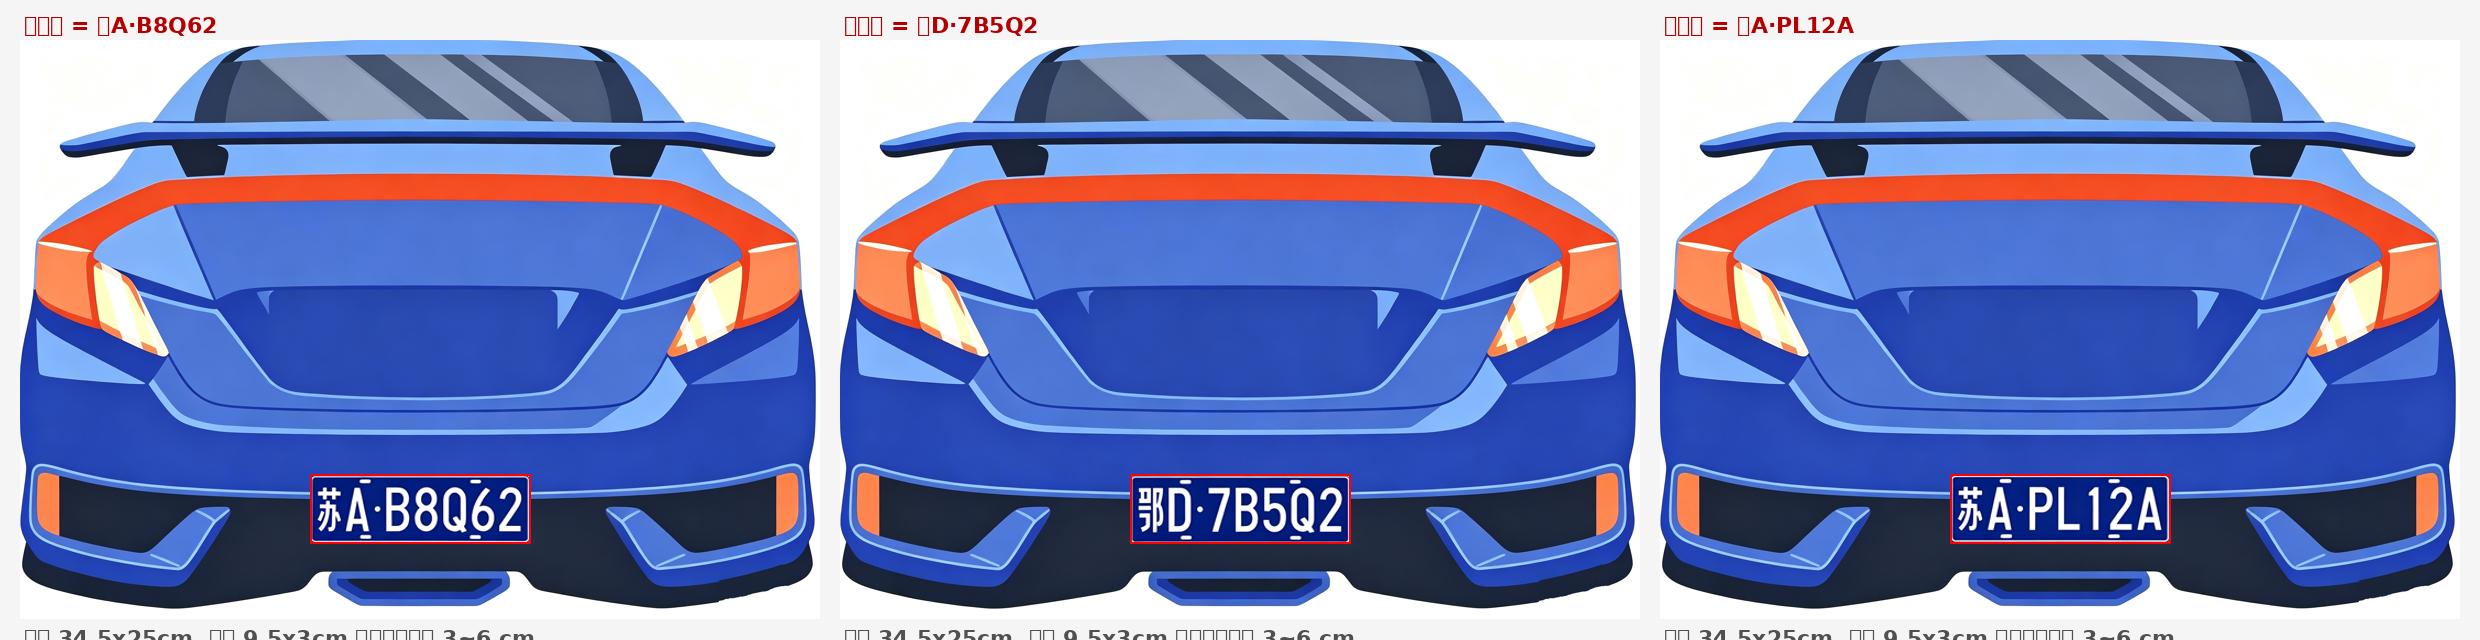
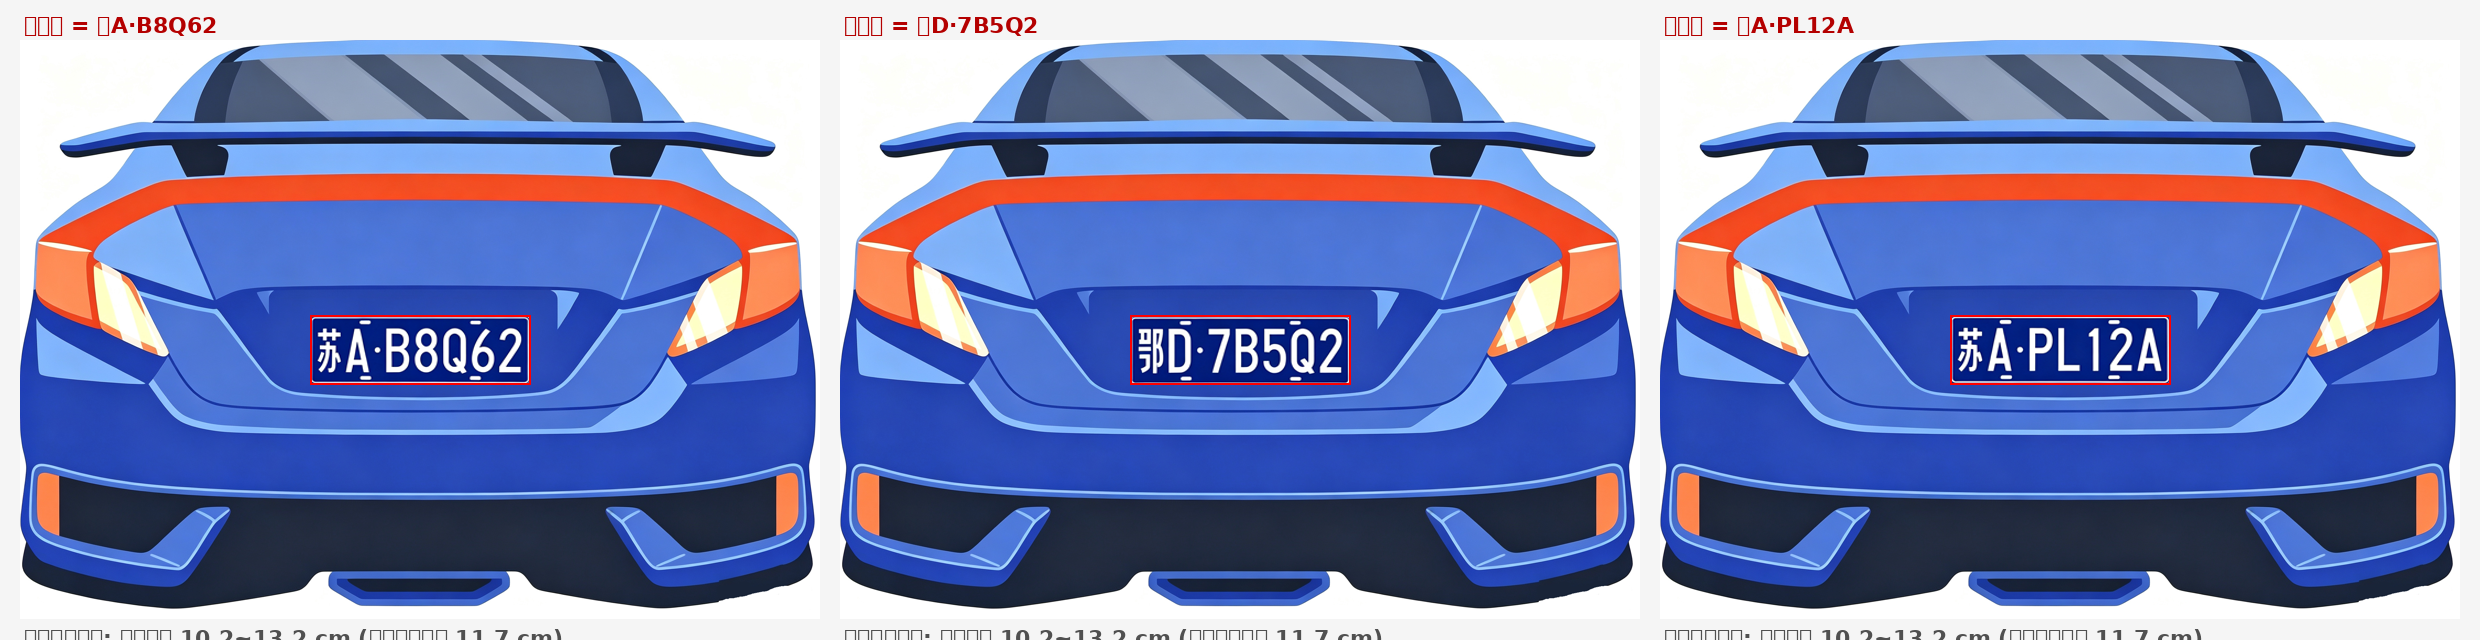
车牌移到后备箱 + 相机提到 1280x960 + 修掉 OGRE 全局贴图名冲突
用户反馈两点:
  1) 车牌位置不对 —— 按实车应该在**后备箱**上, 并给了画红框的标注图
  2) 可以提高分辨率

改动:
1) 车牌位置 后保险杠 -> 后备箱
   从用户标注图里提取红框 (连通域按填充率区分"手画细框"和"车尾红色灯带",
   灯带填充率 0.178 但外接框 2312x462 是整车宽; 红框 883x348px):
     红框 12.54 x 4.94 cm, 中心离车板底 11.65 cm
   -> PLATE_CZ 0.048 -> 0.1165 (车牌 9.5x3cm 居中贴红框中心)
   新增 PLATE_CX 参数 (红框中心实测偏 -0.28cm, 取 0)

2) 相机 640x480 -> 1280x960 (robot_params.yaml, 已重新生成 URDF)
   为什么必须提: 车牌只有 9.5cm 宽, 640x480/58°HFOV 时在 0.9m 处只占 67px,
   7 个字符每字 ~9px, **不够 OCR**; 1280x960 后:
     车距 0.605m -> 198px -> 每字 26px ✓
     车距 0.70m  -> 171px -> 每字 23px ✓
     车距 0.90m  -> 133px -> 每字 18px ~勉强
   所以机器人得贴到右车道内侧 (x≈1.45, 距车 0.6m 左右) 拍。

3) ★ 修 OGRE 全局名字冲突 (踩了两层)
   第一层: 材质名。三个模型都用 Car/Body + Car/Plate -> 互相覆盖,
           三辆车显示同一张车牌。改成 Car/Body_<model> / Car/Plate_<model>。
   第二层: **贴图名也冲突**。三个模型目录下的贴图都叫 car.png / plate.png,
           OGRE 的贴图也是按名字全局注册的 -> 仍然互相覆盖。
           改成 <model>_car.png / <model>_plate.png, 并在生成前清空 textures
           目录 (旧文件残留会继续占名)。
   实测: 修之前在默认出生点前方临时摆 car_1/car_2, 抓到的是 car_3 的 PL12A;
         修后同位置抓到 苏A·B8Q62 (car_1) ✓ 三辆车各显示自己的牌照。
   (人偶立牌没踩这个坑 —— 它的贴图本来就按 standee_c01.png 这样唯一命名)

顺带产出: docs/car_design.png (车牌贴片位置的离线合成验证图)

diff --git a/tools/setup_cars.py b/tools/setup_cars.py
@@ -49,10 +49,13 @@ END = '    <!-- ===== 车辆+车牌结束 ===== -->'
 BOARD_W, BOARD_H, BOARD_T = 0.345, 0.250, 0.005     # 车板 宽 x 高 x 厚
 PLATE_W, PLATE_H, PLATE_T = 0.095, 0.030, 0.003     # 车牌 宽 x 高 x 厚
 BASE_T = 0.006                                       # 底座厚
-# 车牌贴在车板正面的位置 (相对车板左下角): 水平居中, 高度 4.8cm
-#   官方车尾图没画车牌安装位, 按真车习惯放在后保险杠中间; 实测保险杠在
-#   z 0.014~0.079 m, 车牌 3cm 高居中放在 0.048 刚好落在保险杠上
-PLATE_CZ = 0.048
+# 车牌贴在车板正面的位置 (相对车板左下角)
+#   ★ 位置由用户标注决定: 用户在车尾图上画了红框 (手画, 12.54 x 4.94 cm,
+#     中心离车板底 11.65 cm) —— 按实车看车牌是装在后**备箱**上, 不是保险杠。
+#     车牌 9.5x3 cm 居中贴在红框中心。
+#     (一开始我按真车习惯放在后保险杠中间, 是错的; 官方车尾图上确实不明显)
+PLATE_CZ = 0.1165
+PLATE_CX = 0.0          # 水平偏移 (红框中心实测偏 -0.28cm, 可忽略)
 
 PARKING = [                                          # (车位名, y0, y1)  由 build_arena 提取
     ('3号停车位', -0.805, -0.197),
@@ -70,14 +73,20 @@ def write_car_model(name, plate_png, plate_text):
     d = os.path.join(PKG, 'models', name)
     tex = os.path.join(d, 'materials', 'textures')
     scr = os.path.join(d, 'materials', 'scripts')
+    # 先清空: 旧的 car.png / plate.png 残留会继续占着 OGRE 的全局贴图名
+    if os.path.isdir(tex):
+        shutil.rmtree(tex)
     os.makedirs(tex, exist_ok=True)
     os.makedirs(scr, exist_ok=True)
     # 车尾图缩小到合理分辨率 (2432px 对 34.5cm 是 70px/cm, 太大; 保留 ~28px/cm 够用)
     from PIL import Image
     bg = Image.open(os.path.join(SRC, '车牌背景.png')).convert('RGB')
     bg = bg.resize((968, 688), Image.LANCZOS)          # 968/(0.345*100) = 28 px/cm
-    bg.save(os.path.join(tex, 'car.png'))
-    shutil.copyfile(plate_png, os.path.join(tex, 'plate.png'))
+    # ★ 贴图文件名也必须**每个模型都不同**: OGRE 的**贴图**和材质一样是按名字
+    #   全局注册的。三个模型都叫 car.png / plate.png 的话, 第一个加载的会被后面
+    #   复用 —— 结果三辆车显示同一张车牌。(材质名唯一还不够!)
+    bg.save(os.path.join(tex, '%s_car.png' % name))
+    shutil.copyfile(plate_png, os.path.join(tex, '%s_plate.png' % name))
 
     with open(os.path.join(scr, 'car.material'), 'w') as f:
         f.write('''// 自动生成 (tools/setup_cars.py)
@@ -89,7 +98,7 @@ material Car/Body_%(name)s
     ambient 1 1 1 1
     diffuse 1 1 1 1
     specular 0 0 0 0 0
-    texture_unit { texture car.png filtering anisotropic max_anisotropy 8 }
+    texture_unit { texture %(name)s_car.png filtering anisotropic max_anisotropy 8 }
   } }
 }
 material Car/Plate_%(name)s
@@ -99,7 +108,7 @@ material Car/Plate_%(name)s
     diffuse 1 1 1 1
     specular 0 0 0 0 0
     alpha_rejection greater_equal 128
-    texture_unit { texture plate.png filtering anisotropic max_anisotropy 8 }
+    texture_unit { texture %(name)s_plate.png filtering anisotropic max_anisotropy 8 }
   } }
 }
 ''' % dict(name=name))
@@ -123,7 +132,7 @@ material Car/Plate_%(name)s
         </script></material>
       </visual>
       <visual name="plate">
-        <pose>{px:.4f} 0 {pz:.4f} 0 0 0</pose>
+        <pose>{px:.4f} {pcx:.4f} {pz:.4f} 0 0 0</pose>
         <geometry><box><size>{pt:.4f} {pw:.4f} {ph:.4f}</size></box></geometry>
         <material><script>
           <uri>model://{name}/materials/scripts</uri>
@@ -149,7 +158,7 @@ material Car/Plate_%(name)s
 </sdf>
 '''.format(name=name, plate=plate_text, bw=BOARD_W, bh=BOARD_H, bt=BOARD_T,
            pw=PLATE_W, ph=PLATE_H, pt=PLATE_T, hz=hz,
-           px=BOARD_T / 2.0 + PLATE_T / 2.0, pz=BASE_T + PLATE_CZ,
+           px=BOARD_T / 2.0 + PLATE_T / 2.0, pz=BASE_T + PLATE_CZ, pcx=PLATE_CX,
            bz=BASE_T / 2.0, bt2=BASE_T)
     open(os.path.join(d, 'model.sdf'), 'w').write(sdf)
     open(os.path.join(d, 'model.config'), 'w').write(
